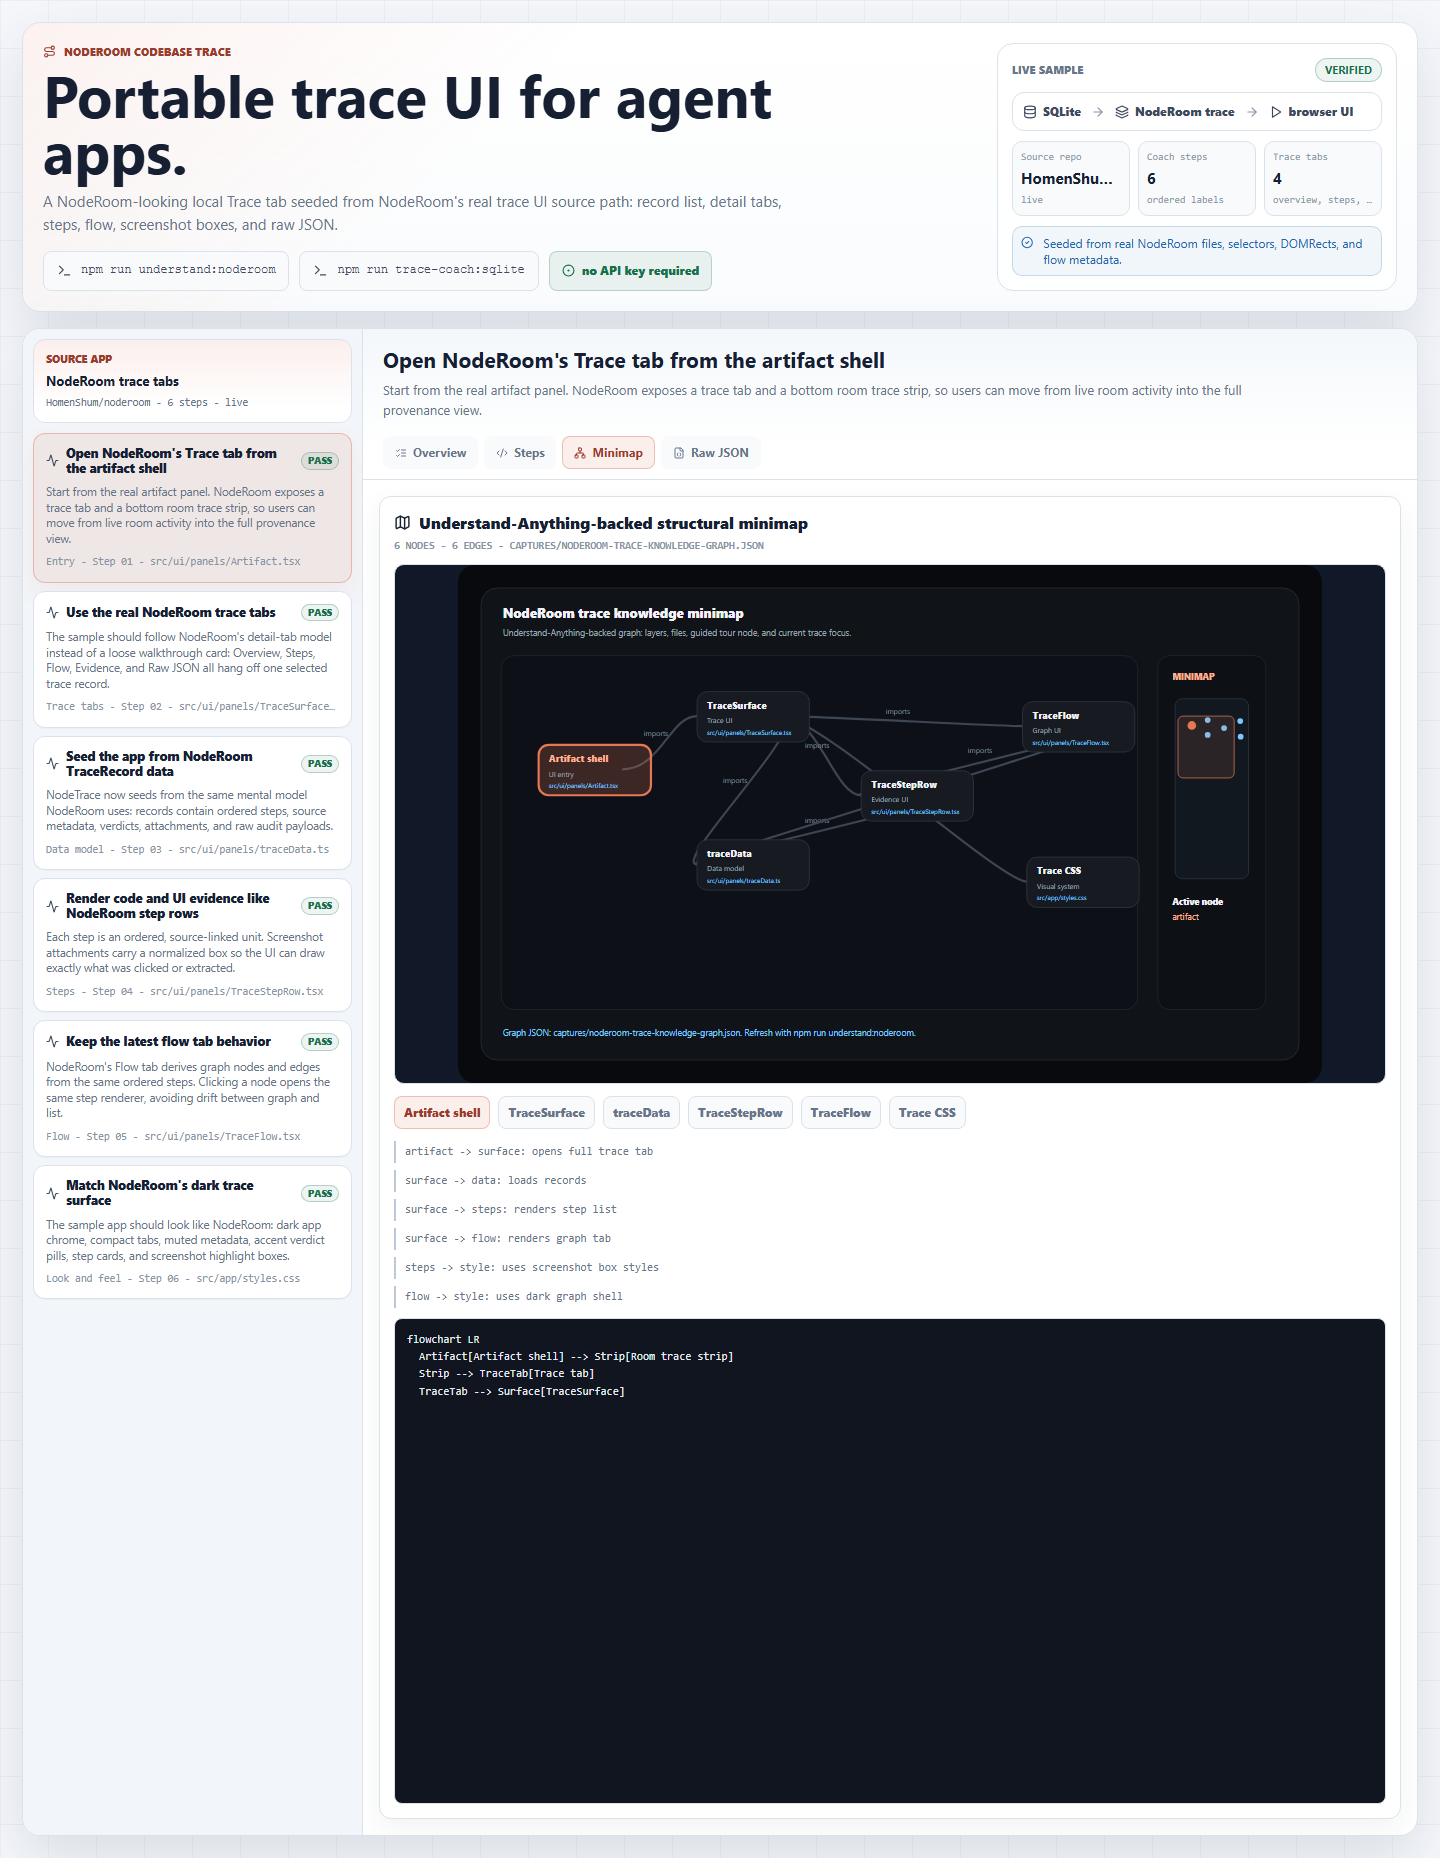
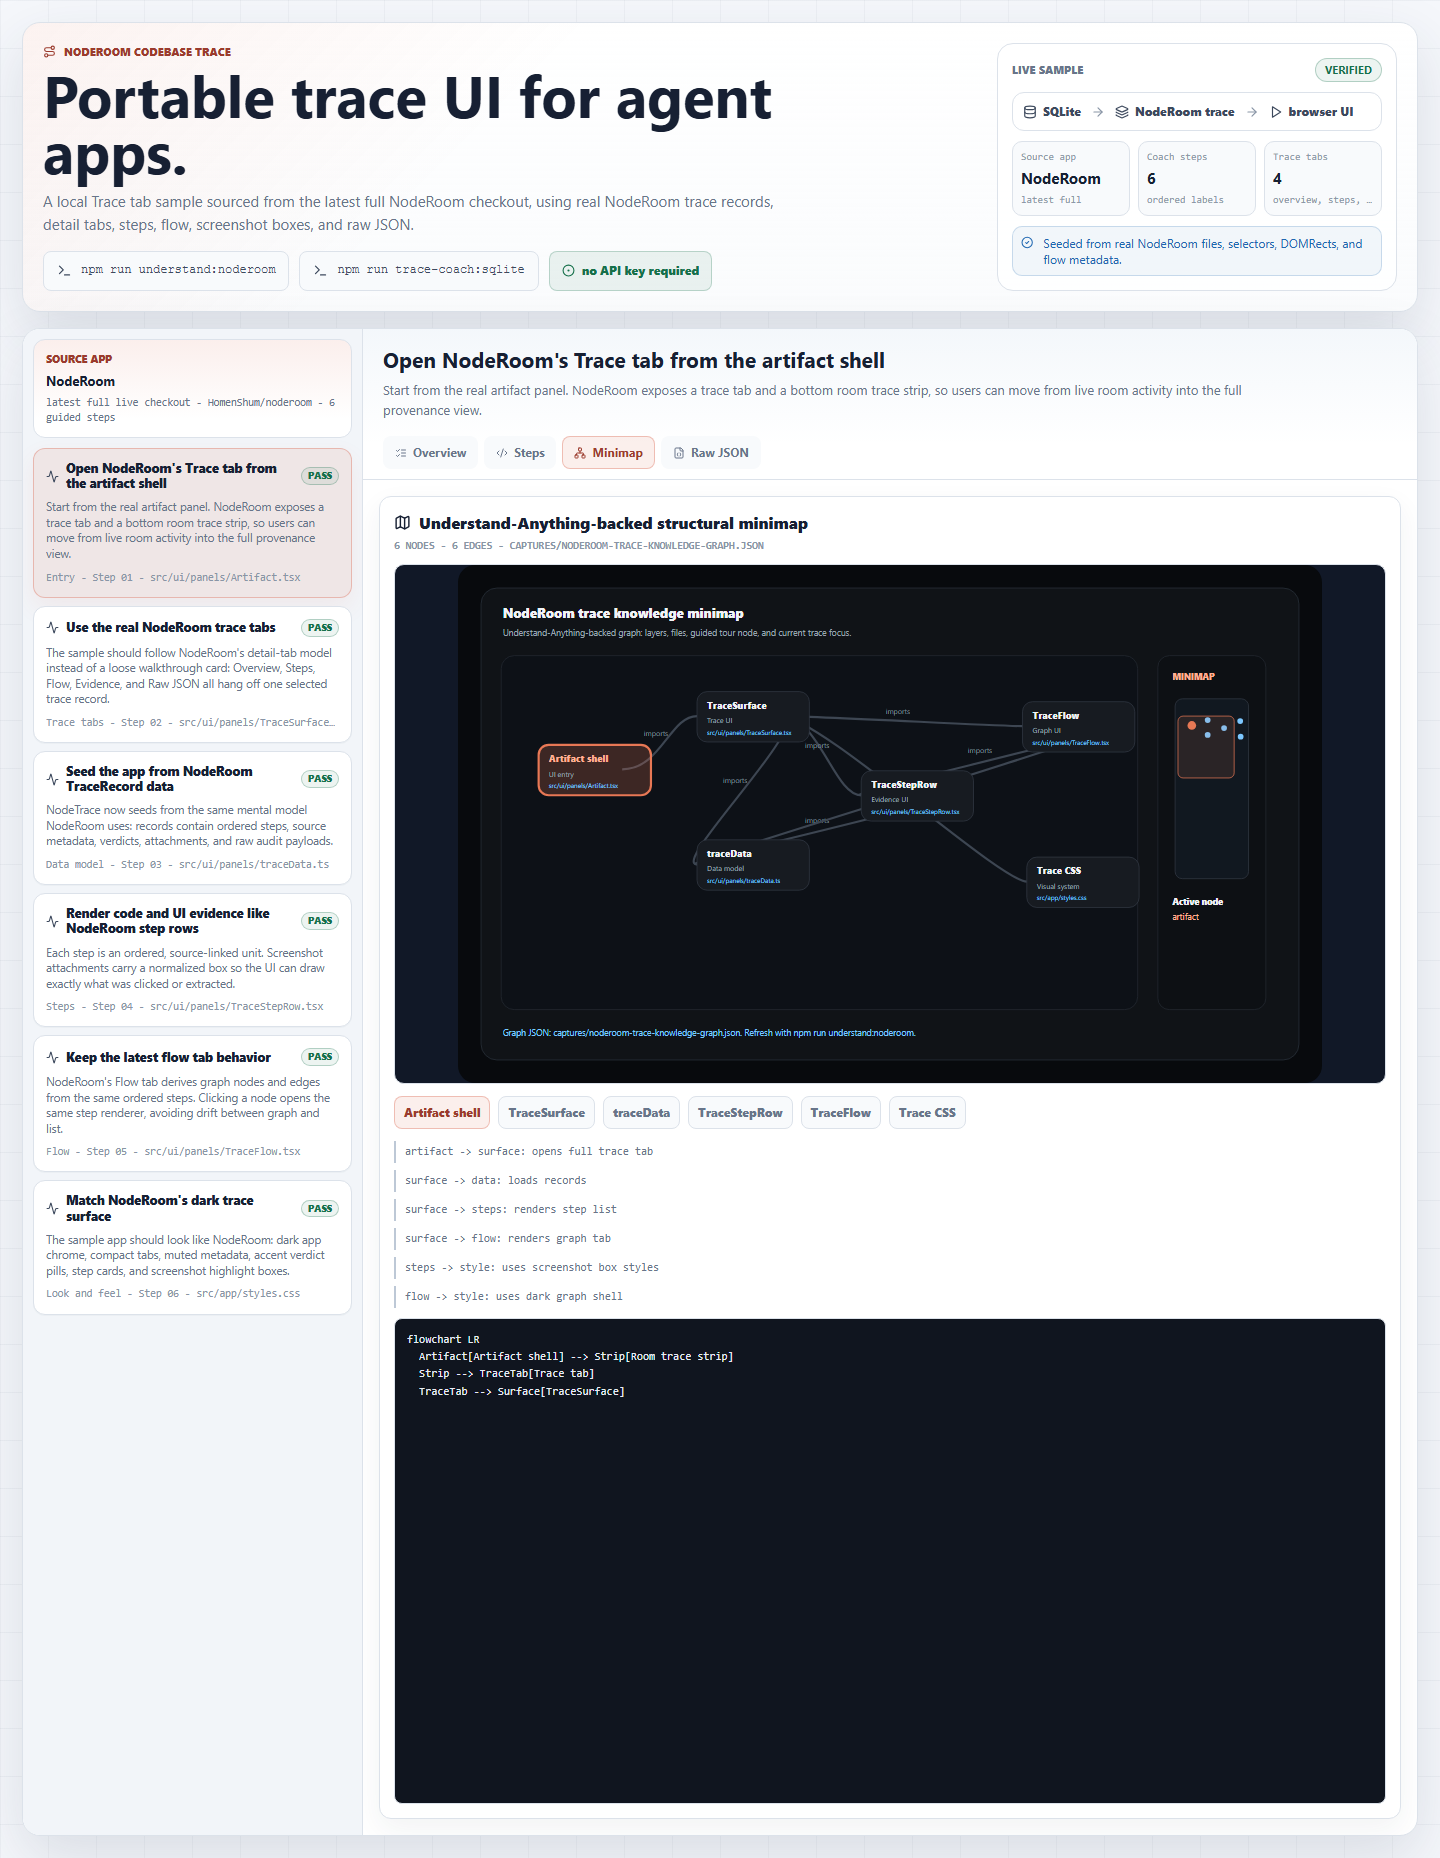
Clarify NodeRoom source app in Trace Coach

Changed region(s): [[0.0312, 0.1873, 0.25, 0.718], [0.0312, 0.0936, 0.5312, 0.1249], [0.7188, 0.0936, 0.75, 0.1249]]

diff --git a/src/DemoDashboard.tsx b/src/DemoDashboard.tsx
@@ -38,7 +38,7 @@ export function DemoDashboard() {
 
   const heroStats = useMemo(
     () => [
-      { detail: coach?.sourceMode ?? "local", label: "Source repo", value: coach?.sourceRepo ?? "portable" },
+      { detail: coach?.sourceMode === "live" ? "latest full" : "local checkout", label: "Source app", value: "NodeRoom" },
       { detail: "ordered labels", label: "Coach steps", value: String(coach?.steps.length ?? 0) },
       { detail: "overview, steps, minimap, raw", label: "Trace tabs", value: "4" },
     ],
@@ -128,6 +128,7 @@ function TraceCoachPanel({
   setActiveTab: (tab: CoachTab) => void;
   setActiveStepId: (stepId: string) => void;
 }) {
+  const sourceModeLabel = coach.sourceMode === "live" ? "latest full live checkout" : "full local checkout";
   const activeNodeId = activeStep.diagram.nodeId;
   const rect = activeStep.uiCapture.rect;
   const tabs: Array<{ id: CoachTab; label: string; Icon: typeof ListChecks }> = [
@@ -151,9 +152,9 @@ function TraceCoachPanel({
       <aside className="coachList r-tracevu-list" aria-label="NodeRoom trace records">
         <div className="coachSource">
           <span>Source app</span>
-          <strong>NodeRoom trace tabs</strong>
+          <strong>NodeRoom</strong>
           <small>
-            {coach.sourceRepo} - {coach.steps.length} steps - {coach.sourceMode}
+            {sourceModeLabel} - {coach.sourceRepo} - {coach.steps.length} guided steps
           </small>
         </div>
         {coach.steps.map((step) => (